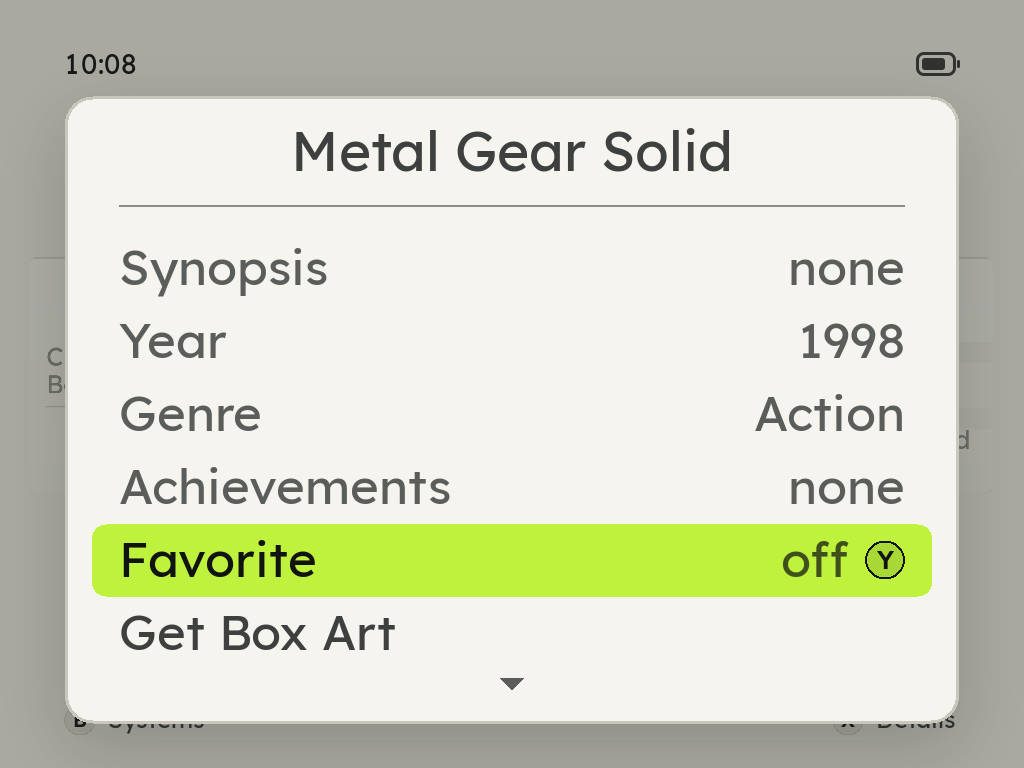
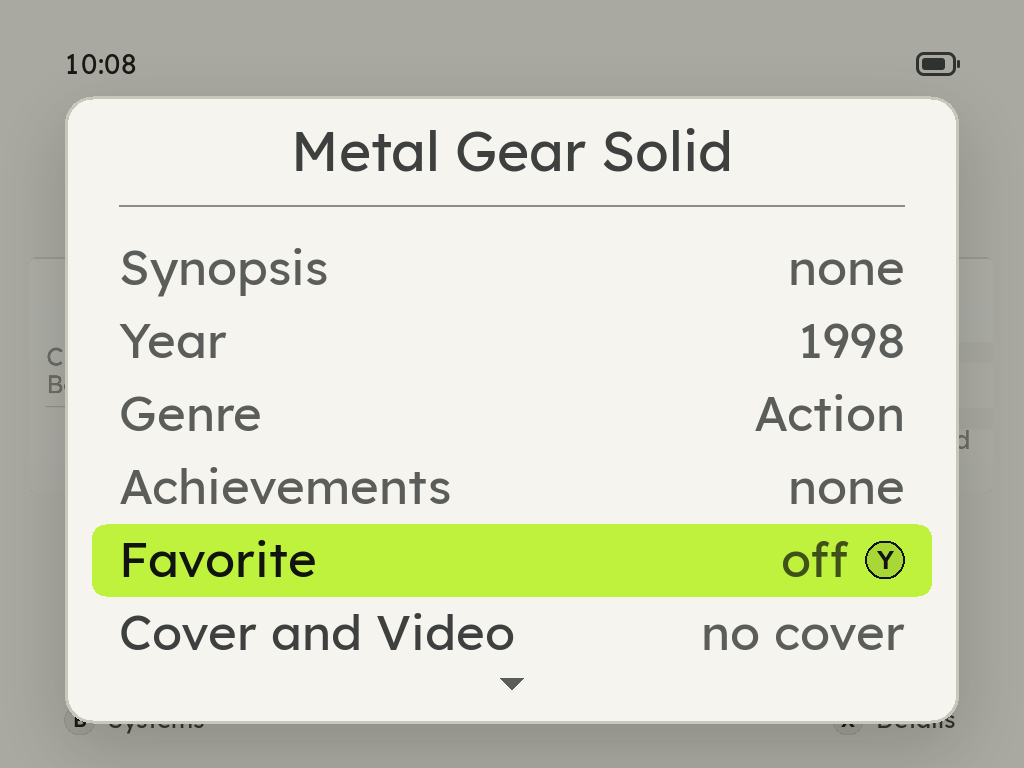
README and site: Cover and Video, its shots light and dark, and the details row's new name

Changed region(s): [[0.125, 0.7812, 0.5, 0.8438], [0.6875, 0.8125, 0.875, 0.8438]]

diff --git a/site/index.html b/site/index.html
@@ -324,10 +324,11 @@
     <figure class="shot" data-i="9" style="transform:translateX(-50%) translateX(250%) scale(0.4);opacity:0;z-index:2"><img src="img/gamemenu.png" width="1024" height="768" alt="The in-game menu on its Quick Slot row, slot 1" decoding="async"></figure>
     <figure class="shot" data-i="10" style="transform:translateX(-50%) translateX(250%) scale(0.4);opacity:0;z-index:1"><img src="img/controls-hotkeys.png" width="1024" height="768" alt="Controls: Hotkeys. SELECT with R1 and L1 quick save and load, with R2 and L2 faster and slower" decoding="async"></figure>
     <figure class="shot" data-i="11" style="transform:translateX(-50%) translateX(250%) scale(0.4);opacity:0;z-index:0"><img src="img/storage.png" width="1024" height="768" alt="MENU &gt; Storage: the card in one bar by part, two recommendations, then every system by size" decoding="async"></figure>
+    <figure class="shot" data-i="12" style="transform:translateX(-50%) translateX(250%) scale(0.4);opacity:0;z-index:0"><img src="img/media.png" width="1024" height="768" alt="A game&#x27;s Cover and Video page: the cover it has beside what libretro, ScreenScraper and SteamGridDB offer, each named, and its video" decoding="async"></figure>
   </div>
   <div class="shelf-foot">
     <b data-cap aria-live="polite">Every system, in pixel art</b>
-    <span class="meta" data-count>2 / 12</span>
+    <span class="meta" data-count>2 / 13</span>
     <div class="rail"><i style="transform:translateX(100%)"></i></div>
   </div>
   <div class="shelf-ctl">
@@ -347,6 +348,7 @@
       <div><h3>A first start that asks</h3><p>Zyper says hello in each language until you pick yours, teaches each button and shows where it is on the Pixel 2, then asks for the theme, the home screen, the button sounds and the menu music.</p></div>
       <div><h3>No games yet? It shows how</h3><p>An empty card opens on the two ways to add games, USB or Wi-Fi, one button each. Zyper cheers when they arrive.</p></div>
       <div><h3>Box art it finds itself</h3><p>MENU &gt; Scraper asks libretro with no account, ScreenScraper with a free one in builds that carry its developer pair, and SteamGridDB with your own key. Renamed ROMs match by checksum.</p></div>
+      <div><h3>Pick a game's cover</h3><p>X on a game, then Cover and Video: every box, 3D box, title screen and screenshot the three sources offer, named with where it comes from. A shows it big first, and the cover it replaces is kept to put back.</p></div>
       <div><h3>Video snaps</h3><p>Rest on a game for a second and its cover turns into a few seconds of the game, from ScreenScraper. A play mark says which games have one.</p></div>
       <div><h3>Delete a game, and only that game</h3><p>X on a game, then Delete Game: it asks first, then takes the game with its saves, states, cover and video, and the shelf moves on. A file another game still uses stays, and so does a BIOS set like neogeo.zip.</p></div>
       <div><h3>Storage, as a phone shows it</h3><p>MENU &gt; Storage shows what fills the card in one bar, then every system by size and each system's games largest first. Music, Videos and Audiobooks open their albums, films and books, and X sorts any list by size, A to Z or last played. It suggests what can go: art of games no longer there, and save states of games not played for a year.</p></div>
@@ -464,6 +466,7 @@
           <tr><th scope="row">Rumble</th><td class="us"><span class="ic yes" tabindex="0" role="img" aria-label="Yes. Games rumble" data-tip="Games rumble"><svg viewBox="0 0 24 24" aria-hidden="true"><path d="M5 12.5l4.5 4.5L19 7.5"/></svg></span></td><td><span class="ic unk" tabindex="0" role="img" aria-label="Unknown. No source we read says either way." data-tip="No source we read says either way.">–</span></td><td><span class="ic yes" tabindex="0" role="img" aria-label="Yes. Through SDL2, with a stronger setting" data-tip="Through SDL2, with a stronger setting"><svg viewBox="0 0 24 24" aria-hidden="true"><path d="M5 12.5l4.5 4.5L19 7.5"/></svg></span></td><td><span class="ic no" tabindex="0" role="img" aria-label="No. plastron&#x27;s README: neither device has rumble" data-tip="plastron&#x27;s README: neither device has rumble"><svg viewBox="0 0 24 24" aria-hidden="true"><path d="M7 7l10 10M17 7L7 17"/></svg></span></td><td><span class="ic yes" tabindex="0" role="img" aria-label="Yes. The Pixel 2&#x27;s vibration motor is in its device tree" data-tip="The Pixel 2&#x27;s vibration motor is in its device tree"><svg viewBox="0 0 24 24" aria-hidden="true"><path d="M5 12.5l4.5 4.5L19 7.5"/></svg></span></td><td><span class="ic unk" tabindex="0" role="img" aria-label="Unknown. No source we read says either way." data-tip="No source we read says either way.">–</span></td></tr>
           <tr><th scope="row">Side lights</th><td class="us"><span class="ic yes" tabindex="0" role="img" aria-label="Yes. The battery, volume and brightness, finished transfers and achievements, each on or off in Settings &gt; Side Lights" data-tip="The battery, volume and brightness, finished transfers and achievements, each on or off in Settings &gt; Side Lights"><svg viewBox="0 0 24 24" aria-hidden="true"><path d="M5 12.5l4.5 4.5L19 7.5"/></svg></span></td><td><span class="ic unk" tabindex="0" role="img" aria-label="Unknown. No source we read says either way." data-tip="No source we read says either way.">–</span></td><td><span class="ic unk" tabindex="0" role="img" aria-label="Unknown. No source we read says either way." data-tip="No source we read says either way.">–</span></td><td><span class="ic yes" tabindex="0" role="img" aria-label="Yes. The battery" data-tip="The battery"><svg viewBox="0 0 24 24" aria-hidden="true"><path d="M5 12.5l4.5 4.5L19 7.5"/></svg></span></td><td><span class="ic yes" tabindex="0" role="img" aria-label="Yes. The battery" data-tip="The battery"><svg viewBox="0 0 24 24" aria-hidden="true"><path d="M5 12.5l4.5 4.5L19 7.5"/></svg></span></td><td><span class="ic unk" tabindex="0" role="img" aria-label="Unknown. No source we read says either way." data-tip="No source we read says either way.">–</span></td></tr>
           <tr><th scope="row">Storage by part and by game</th><td class="us"><span class="ic yes" tabindex="0" role="img" aria-label="Yes. MENU &gt; Storage: the card in one bar by part, every system, game, album and film by size, and what can go" data-tip="MENU &gt; Storage: the card in one bar by part, every system, game, album and film by size, and what can go"><svg viewBox="0 0 24 24" aria-hidden="true"><path d="M5 12.5l4.5 4.5L19 7.5"/></svg></span></td><td><span class="ic unk" tabindex="0" role="img" aria-label="Unknown. No source we read says either way." data-tip="No source we read says either way.">–</span></td><td><span class="ic unk" tabindex="0" role="img" aria-label="Unknown. No source we read says either way." data-tip="No source we read says either way.">–</span></td><td><span class="ic unk" tabindex="0" role="img" aria-label="Unknown. No source we read says either way." data-tip="No source we read says either way.">–</span></td><td><span class="ic unk" tabindex="0" role="img" aria-label="Unknown. No source we read says either way." data-tip="No source we read says either way.">–</span></td><td><span class="ic unk" tabindex="0" role="img" aria-label="Unknown. No source we read says either way." data-tip="No source we read says either way.">–</span></td></tr>
+          <tr><th scope="row">Pick a game's cover on the device</th><td class="us"><span class="ic yes" tabindex="0" role="img" aria-label="Yes. From libretro, ScreenScraper and SteamGridDB, a big look first, the old one kept to put back" data-tip="From libretro, ScreenScraper and SteamGridDB, a big look first, the old one kept to put back"><svg viewBox="0 0 24 24" aria-hidden="true"><path d="M5 12.5l4.5 4.5L19 7.5"/></svg></span></td><td><span class="ic unk" tabindex="0" role="img" aria-label="Unknown. No source we read says either way." data-tip="No source we read says either way.">–</span></td><td><span class="ic unk" tabindex="0" role="img" aria-label="Unknown. No source we read says either way." data-tip="No source we read says either way.">–</span></td><td><span class="ic unk" tabindex="0" role="img" aria-label="Unknown. No source we read says either way." data-tip="No source we read says either way.">–</span></td><td><span class="ic unk" tabindex="0" role="img" aria-label="Unknown. No source we read says either way." data-tip="No source we read says either way.">–</span></td><td><span class="ic unk" tabindex="0" role="img" aria-label="Unknown. No source we read says either way." data-tip="No source we read says either way.">–</span></td></tr>
           <tr><th scope="row">Video previews on the shelf</th><td class="us"><span class="ic yes" tabindex="0" role="img" aria-label="Yes. Rest on a game for a second and its cover plays a few seconds of it, from ScreenScraper" data-tip="Rest on a game for a second and its cover plays a few seconds of it, from ScreenScraper"><svg viewBox="0 0 24 24" aria-hidden="true"><path d="M5 12.5l4.5 4.5L19 7.5"/></svg></span></td><td><span class="ic unk" tabindex="0" role="img" aria-label="Unknown. No source we read says either way." data-tip="No source we read says either way.">–</span></td><td><span class="ic unk" tabindex="0" role="img" aria-label="Unknown. No source we read says either way." data-tip="No source we read says either way.">–</span></td><td><span class="ic unk" tabindex="0" role="img" aria-label="Unknown. No source we read says either way." data-tip="No source we read says either way.">–</span></td><td><span class="ic unk" tabindex="0" role="img" aria-label="Unknown. No source we read says either way." data-tip="No source we read says either way.">–</span></td><td><span class="ic unk" tabindex="0" role="img" aria-label="Unknown. No source we read says either way." data-tip="No source we read says either way.">–</span></td></tr>
           <tr><th scope="row">Charge limit</th><td class="us"><span class="ic yes" tabindex="0" role="img" aria-label="Yes. Settings &gt; Charge Limit stops charging at 80, 85 or 90%" data-tip="Settings &gt; Charge Limit stops charging at 80, 85 or 90%"><svg viewBox="0 0 24 24" aria-hidden="true"><path d="M5 12.5l4.5 4.5L19 7.5"/></svg></span></td><td><span class="ic unk" tabindex="0" role="img" aria-label="Unknown. No source we read says either way." data-tip="No source we read says either way.">–</span></td><td><span class="ic unk" tabindex="0" role="img" aria-label="Unknown. No source we read says either way." data-tip="No source we read says either way.">–</span></td><td><span class="ic unk" tabindex="0" role="img" aria-label="Unknown. No source we read says either way." data-tip="No source we read says either way.">–</span></td><td><span class="ic unk" tabindex="0" role="img" aria-label="Unknown. No source we read says either way." data-tip="No source we read says either way.">–</span></td><td><span class="ic unk" tabindex="0" role="img" aria-label="Unknown. No source we read says either way." data-tip="No source we read says either way.">–</span></td></tr>
           <tr><th scope="row">Charging screen when off</th><td class="us"><span class="ic yes" tabindex="0" role="img" aria-label="Yes. A charger plugged in while it is off shows the charge and the time to full; hold POWER to start" data-tip="A charger plugged in while it is off shows the charge and the time to full; hold POWER to start"><svg viewBox="0 0 24 24" aria-hidden="true"><path d="M5 12.5l4.5 4.5L19 7.5"/></svg></span></td><td><span class="ic unk" tabindex="0" role="img" aria-label="Unknown. No source we read says either way." data-tip="No source we read says either way.">–</span></td><td><span class="ic unk" tabindex="0" role="img" aria-label="Unknown. No source we read says either way." data-tip="No source we read says either way.">–</span></td><td><span class="ic unk" tabindex="0" role="img" aria-label="Unknown. No source we read says either way." data-tip="No source we read says either way.">–</span></td><td><span class="ic unk" tabindex="0" role="img" aria-label="Unknown. No source we read says either way." data-tip="No source we read says either way.">–</span></td><td><span class="ic unk" tabindex="0" role="img" aria-label="Unknown. No source we read says either way." data-tip="No source we read says either way.">–</span></td></tr>
@@ -614,7 +617,7 @@
 (() => {
   const shelf = document.querySelector(".shelf"), stage = shelf.querySelector(".stage");
   const shots = [...stage.querySelectorAll(".shot")];
-  const caps = ["Or the Gallery home", "Every system, in pixel art", "Your games, cover by cover", "A game's details, one button away", "RetroAchievements on the device", "The device's settings in one menu", "Box art from three sources", "Your albums, in MP4", "The battery, as time left", "Quick save and load, to the slot you pick", "SELECT with a shoulder: the hotkeys", "What fills the card, by part and by size"];
+  const caps = ["Or the Gallery home", "Every system, in pixel art", "Your games, cover by cover", "A game's details, one button away", "RetroAchievements on the device", "The device's settings in one menu", "Box art from three sources", "Your albums, in MP4", "The battery, as time left", "Quick save and load, to the slot you pick", "SELECT with a shoulder: the hotkeys", "What fills the card, by part and by size", "Pick a game's cover, and see it first"];
   const STEP = [0, .86, 1.52, 2.06, 2.5], SCALE = [1, .78, .62, .5, .4], DIM = [1, .75, .55, .35, 0];
   const cap = shelf.querySelector("[data-cap]"), count = shelf.querySelector("[data-count]");
   const rail = shelf.querySelector(".rail i"), steps = [...shelf.querySelectorAll("[data-step]")];

diff --git a/site/blog/box-art-gkd-pixel-2.html b/site/blog/box-art-gkd-pixel-2.html
@@ -60,8 +60,8 @@ weight: 30
   <li>Name it exactly like the game file, with <code>.png</code> in place of its extension: <code>Black Castle.gb</code> wants <code>Black Castle.png</code>.</li>
   <li>Put it in <code>Roms/&lt;console&gt;/.media/</code>, with the card in a computer or on the File Transfer page.</li>
 </ol>
-<p>A fetch never writes over a cover that is already there. To swap one, press <kbd>X</kbd> on the game and choose <strong>Replace Box Art</strong>: it looks again, and keeps the one you had if nothing turns up.</p>
-<figure class="shot"><img src="/img/info.png" alt="A game's details in ZyperOS: its cover, year, publisher and genre"><figcaption><kbd>X</kbd> on a game: its details, with Replace Box Art.</figcaption></figure>
+<p>A fetch never writes over a cover that is already there. To swap one, press <kbd>X</kbd> on the game and choose <strong>Cover and Video</strong>: it shows the cover you have beside every one libretro, ScreenScraper and SteamGridDB offer, named with where it comes from. <kbd>A</kbd> shows one big, <kbd>A</kbd> again uses it, and the cover it replaced is kept to put back.</p>
+<figure class="shot"><img src="/img/info.png" alt="A game's details in ZyperOS: its cover, year, publisher and genre"><figcaption><kbd>X</kbd> on a game: its details, with Cover and Video.</figcaption></figure>
 
 <h2>Covers that went missing after a transfer</h2>
 <p>A console's folder sent with the File Transfer page arrives without its covers, because a browser leaves the hidden <code>.media</code> folder behind. Send the covers on their own: drop the PNG files into the console's <code>.media</code> folder on the page, or drag the <code>.media</code> folder itself onto the console's folder. On a Mac, Cmd-Shift-. shows hidden folders in Finder.</p>

diff --git a/README.md b/README.md
@@ -72,7 +72,7 @@ The name is also two words in one: **zippy** and **hyper**. Games start the mome
 - **An empty card that says what to do:** with no games yet, the home shows the two ways to add them, one button each, and Zyper cheers when the first ones arrive.
 - **Search Games and Random Game:** **MENU > Search Games** finds any game by a few letters of its name, on any system. **Random Game** picks one and starts it, from every system in MENU or from one shelf in that system's menu.
 - **RetroAchievements:** sign in on the device, under **MENU > Achievements**. A game's achievements download once and then work offline, and anything you unlock offline is sent later. Each one has its badge in the list and in the pop-up when you unlock it, a trophy standing in until the badge is on the card, Zyper cheers from the pop-up, and a count like "5 / 10" pops up as you get closer.
-- **Box art the device finds itself,** in **MENU > Scraper**: from libretro's collection with no account; from ScreenScraper with a free account, which brings each game's name, year, genre and synopsis too, in a build made with ScreenScraper's developer pair (the page says `not in this build` otherwise); and from SteamGridDB, with your own free key typed or pasted, for what neither has. Renamed ROM packs are matched by checksum, and each game shows under its proper name with its file left as it is. Or add your own.
+- **Box art the device finds itself,** in **MENU > Scraper**: from libretro's collection with no account; from ScreenScraper with a free account, which brings each game's name, year, genre and synopsis too, in a build made with ScreenScraper's developer pair (the page says `not in this build` otherwise); and from SteamGridDB, with your own free key typed or pasted, for what neither has. Renamed ROM packs are matched by checksum, and each game shows under its proper name with its file left as it is. Or add your own. To change one game's cover, X on it opens **Cover and Video**: every cover, 3D box, title screen and screenshot the three sources offer, each named with where it comes from, a big look before it is used, and the one it replaced kept to put back ([below](#a-game-has-no-box-art)).
 - **Delete a game from the handheld:** press X on a game and choose **Delete Game**. It asks first, naming the game, with the cursor on Cancel. The game's file or files go (a disc set's folder, a `.cue` with its tracks, an arcade set), with its saves, save states, cover, video snap, cached achievements, details and play time, and the shelf moves on to the next game. A file another game still uses stays, and so does a BIOS set like `neogeo.zip`.
 - **Storage, as a phone shows it:** **MENU > Storage** shows what fills the card in one bar, games, saves, art, media and ZyperOS, then every system and folder by size. A system's page lists its games largest first, each with the room Delete Game would give back; Music, Videos and Audiobooks open their albums, films and books the same way, and A deletes one. **X** sorts any of these lists by size, A to Z or last played. Two recommendations clear the covers and video snaps of games no longer on the card, and the save states of games you have not played for a year (the saves stay). It opens at once: the sizes are measured in the background and kept on the card ([below](#what-fills-my-card)).
 - **Video snaps:** rest on a game for a second, while a bar under its cover fills, and the cover turns into a few seconds of the game itself, from ScreenScraper. A play mark on a cover says its game has one. **MENU > Scraper > Video Snaps** turns them on, per console, and their sound starts muted.
@@ -121,6 +121,7 @@ The GKD Pixel 2 has several operating systems to choose from. This is ZyperOS be
 | **Rumble** | Yes | — | Yes | No | Yes | — |
 | **Side lights** | Battery, volume and brightness, finished transfers, achievements: each on or off | — | — | Battery | Battery | — |
 | **Storage by part and by game** | Yes, with recommendations and media pages | — | — | — | — | — |
+| **Pick a game's cover on the device** | From three sources, a big look first, the old one kept to put back | — | — | — | — | — |
 | **Video previews on the shelf** | Yes | — | — | — | — | — |
 | **Charge limit** | 80, 85 or 90% | — | — | — | — | — |
 | **Charging screen when off** | Yes | — | — | — | — | — |
@@ -164,6 +165,10 @@ ZyperOS has two themes, Beard in light and Salt & Pepper in dark. **MENU > Appea
   <tr>
     <td><img src="res/readme/menu.png" width="360" alt="The ZyperOS menu in the light theme"></td>
     <td><img src="res/readme/dark/menu.png" width="360" alt="The ZyperOS menu in the dark theme"></td>
+  </tr>
+  <tr>
+    <td><img src="res/readme/media.png" width="360" alt="A game's Cover and Video page in the light theme"></td>
+    <td><img src="res/readme/dark/media.png" width="360" alt="A game's Cover and Video page in the dark theme"></td>
   </tr>
 </table>
 
@@ -456,7 +461,16 @@ Some games aren't in any collection, like fan translations. Add your own: a PNG 
 
 Covers go over USB or Wi-Fi File Transfer too: drag a console's `.media` folder onto that console's folder on the page, and its covers land in the card's `.media` (Cmd-Shift-. shows hidden folders in Finder). Safari leaves hidden folders out of a folder it sends, so a whole console's folder sent from Safari arrives without its covers: send its `.media` folder on its own. The litter a Mac leaves, `.DS_Store` and `._` files, always stays behind.
 
-Don't like a cover? Press X on the game and choose **Replace Box Art**. It looks again, and if nothing turns up, you keep the one you had.
+Don't like a cover? Press X on the game and choose **Cover and Video**. The cover on the shelf is at the left and what libretro, ScreenScraper and SteamGridDB offer is at the right, each named (box front, 3D box, title screen, screenshot, fan cover) with where it comes from. A shows one big beside the one you have, and A again uses it. The cover it replaced stays as **Before**, and A on it puts it back. The same page shows the game's video snap: watch it with sound, download or replace it, or delete it.
+
+<div align="center">
+<table>
+  <tr>
+    <td align="center"><img src="res/readme/media.png" width="320" alt="A game's Cover and Video page: Now at the left, the pictures found at the right with the focused one named Box Front, USA, from ScreenScraper, and the game's video with Watch, Replace and Delete"><br><sub>What the sources offer, beside the cover you have</sub></td>
+    <td align="center"><img src="res/readme/media-look.png" width="320" alt="Look Closer: one picture big beside the cover on the shelf, with Back and Use as Cover"><br><sub>A look before anything changes</sub></td>
+  </tr>
+</table>
+</div>
 
 With ScreenScraper linked, **MENU > Scraper > Video Snaps** can fetch each game's video snap with its cover. Rest on a game for three seconds and its cover turns into the snap. They take room, a megabyte or three a game: the page shows how much for each console, turns each one on or off, and deletes them all. Their sound is muted to start.
 

diff --git a/docs/guide.md b/docs/guide.md
@@ -777,12 +777,31 @@ neighbors. Its full scraped title, play time and achievement count appear below.
 A resumes an available saved game or starts it otherwise. Y toggles Favorite;
 X opens game details. A game without a cover keeps a readable text fallback.
 
+Above it, **Cover and Video** opens a page for the game's cover and its video
+snap. At the left, **Now** is the cover the shelf shows, with where it came
+from. At the right, **Found** is what the sources offer: libretro first, then
+ScreenScraper (with an account) and SteamGridDB (with a key), each picture
+named under it ("Box Front · USA", "Title Screen", "Fan Cover") with its
+source. Left and right move along them; A shows one big beside Now, and A
+again makes it the cover. The cover it replaces is kept as **Before**, first
+in the row: A on it puts it back (one level, either way). Below, the game's
+video: its picture plays muted while a row of it is chosen; **Watch** plays it
+on the whole screen with its sound, **Download** or **Replace** fetches it
+from ScreenScraper, and **Delete** removes it after a question. With no
+network the page still shows the cover, plays the video and puts Before back,
+and says to connect, or to add covers from a computer with File Transfer.
+ScreenScraper counts each of its pictures as a request on your account, so
+only the small copies of the pictures on screen are fetched, and the whole one
+only when you look closer. The row's value says what is missing: `no cover` or
+`no video`.
+
 The details' last row is **Delete Game**. It asks first, naming the game and
 saying that its saves, states, cover and video go with it and that this cannot
 be undone; the cursor starts on Cancel, and B is Cancel. The game's files go -
 its folder for a game in one, the tracks a top-level `.cue`, `.gdi` or `.toc`
 names, an arcade set's `.zip` - with its saves in `Saves/`, its save states and
-their pictures, its cover and video snap, its cached achievement set, and its
+their pictures, its cover and video snap and the cover kept as Before, its
+cached achievement set, and its
 details, favorite and play time in the library. Each path is built from the
 game's own name, never matched by a pattern; a file another game on the card
 still uses stays, a BIOS set such as `neogeo.zip` is never deleted, and a

diff --git a/res/readme/README.md b/res/readme/README.md
@@ -2,8 +2,8 @@
 
 The screenshots in this folder show the current launcher in Beard, the light
 theme: the README and the website show every screen in light. `dark/` holds
-the two screens their light-and-dark sections show in Salt & Pepper, the home
-and the ZyperOS menu, and the top bar's shot (`topbar`, the song's note and the
+the screens their light-and-dark sections show in Salt & Pepper, the home,
+the ZyperOS menu and a game's Cover and Video page, and the top bar's shot (`topbar`, the song's note and the
 headphone mark) in both themes. The 3D device on the website shows the light ones too.
 The logo/wordmark files remain the branding generator's output.
 
@@ -18,7 +18,10 @@ reused from the sessions that built a screen.
 The capture uses temporary demonstration cards: empty game and music files
 with freeware or stand-in names, a card with no games for the empty home, and
 curated Metal Gear Solid metadata. The launcher draws every game card itself:
-no box art and no game screens are included. The home screens show the
+no box art and no game screens are included. The Cover and Video shots
+(`media`, `media-look`, `media-video`) show stand-in pictures readme-shots.py
+draws in the shapes a source offers (a box, a 3D box, a title screen, a fan's
+cover), blends of one color with a diamond, none of any game's art. The home screens show the
 system art in res/system-icons. MP4 shows clearly named demonstration albums.
 Achievement rows, playback timing, transfer progress, the hotspot, the
 Scraper's counts, the Storage page and the System Update page use the launcher's built-in shot
